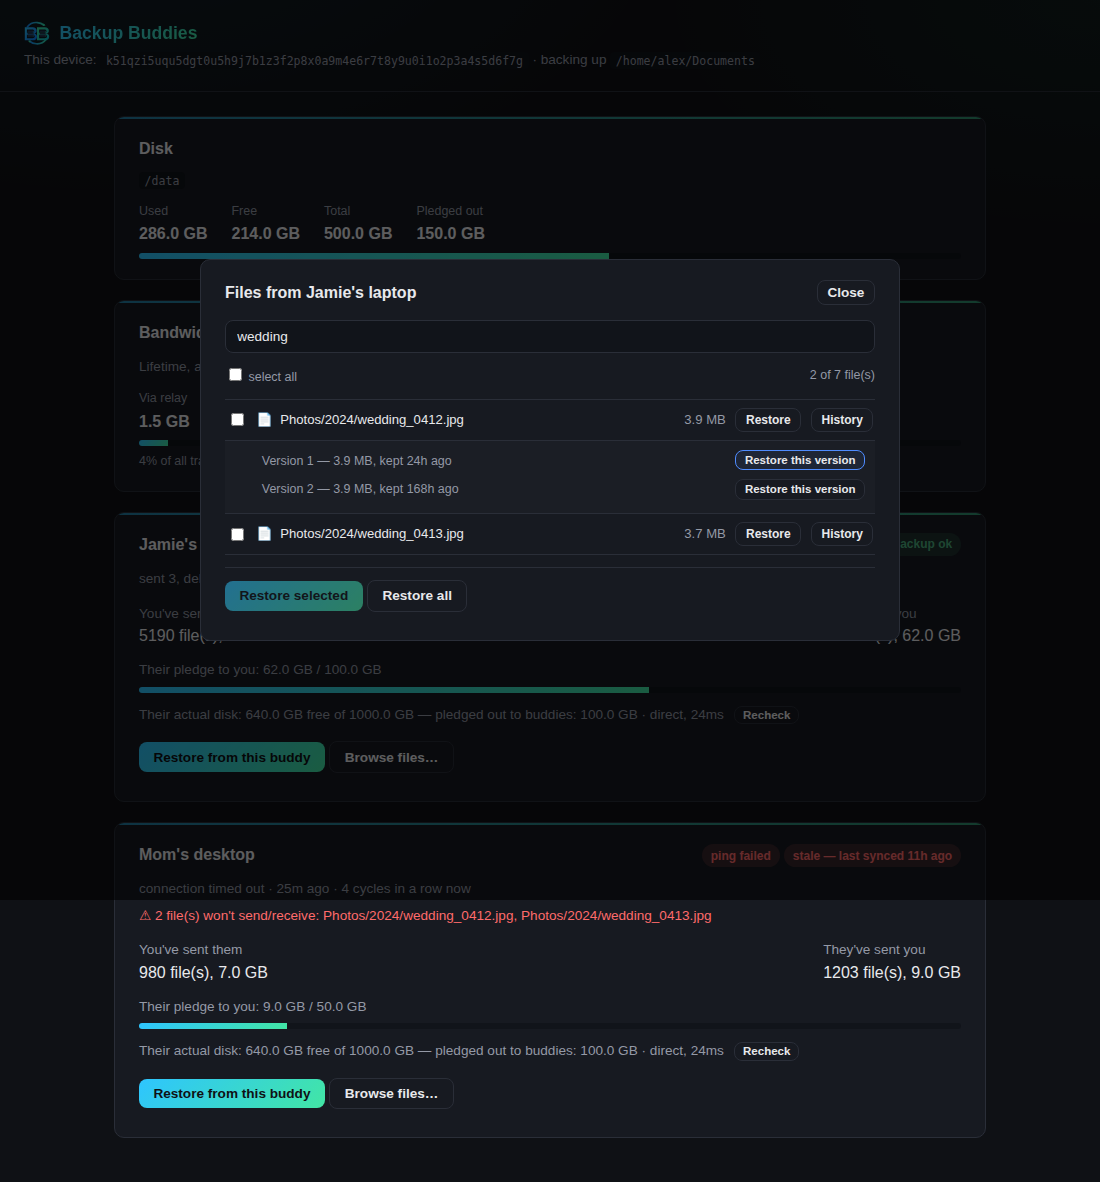
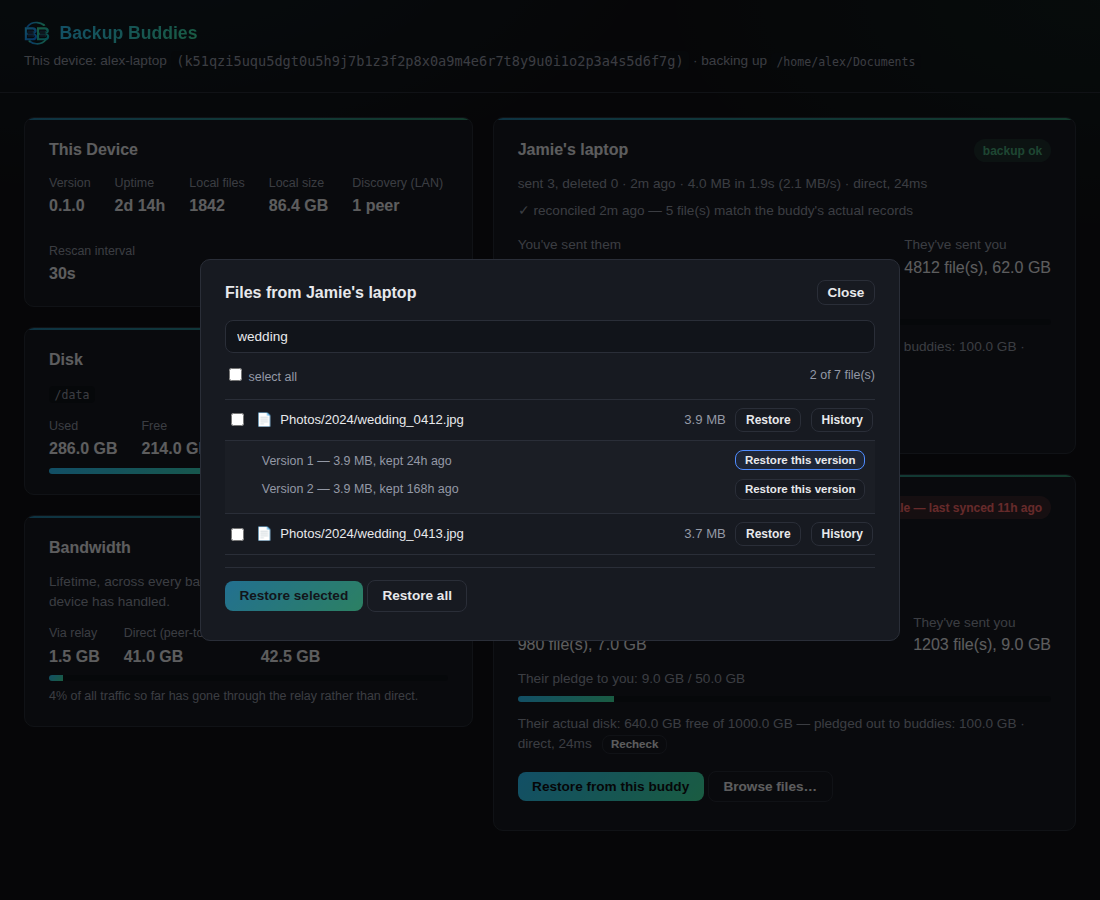
Refresh client screenshots and feature-status for current client GUI
The homepage carousel's three client screenshots predated the "This
Device" panel entirely (version/uptime/local-file-count), let alone
today's device label, two-column layout, and Discovery (LAN)/Rescan
interval stats — regenerated all three (overview, browse modal,
version-history modal) against the actual current dashboard.rs HTML
and JS, rendered with realistic mock data via a throwaway local
server + headless-browser capture (not part of the app; the mock
tooling isn't checked in). Same demo personas/numbers as before
(Jamie's laptop, Mom's desktop) for continuity.

Also updates the public feature-status.json's "Dashboard" entry to
mention the device name and local-network buddy visibility, and
nudges the overview slide's alt text/caption to mention the device
info panel.

diff --git a/apps/web/index.html b/apps/web/index.html
@@ -63,8 +63,8 @@
         <div class="carousel-viewport">
         <div class="carousel-track">
           <figure class="carousel-slide">
-            <img src="/assets/screenshots/client-overview.png" alt="Client dashboard overview, showing disk usage, bandwidth, and each buddy's backup status" loading="lazy">
-            <figcaption>Overview — disk, bandwidth, and every buddy's pledge in one place</figcaption>
+            <img src="/assets/screenshots/client-overview.png" alt="Client dashboard overview, showing device info, disk usage, bandwidth, and each buddy's backup status" loading="lazy">
+            <figcaption>Overview — device info, disk, bandwidth, and every buddy's pledge in one place</figcaption>
           </figure>
           <figure class="carousel-slide">
             <img src="/assets/screenshots/client-browse.png" alt="File browser modal showing a buddy's backed-up folders" loading="lazy">
